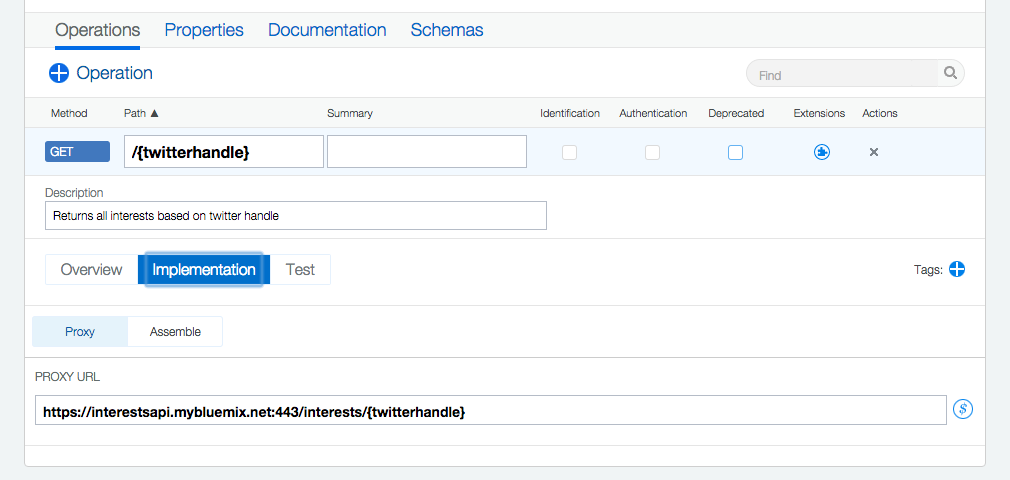
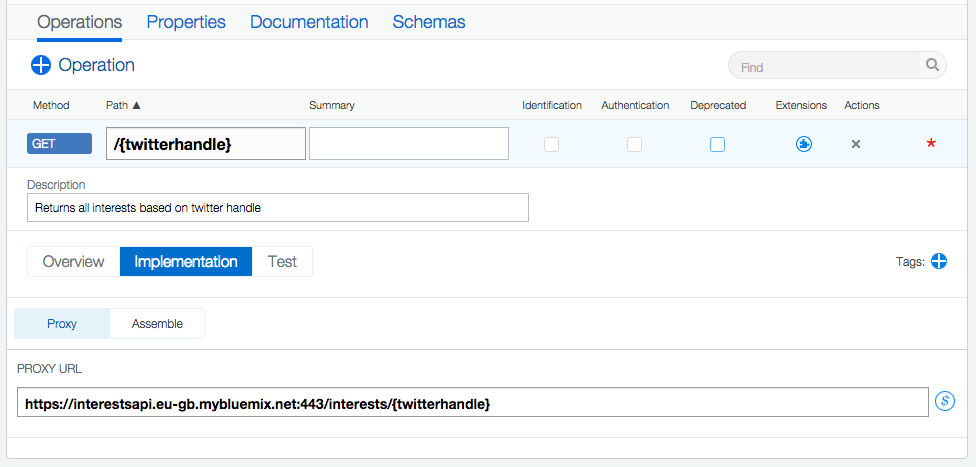
proxyurl

diff --git a/README.md b/README.md
@@ -49,7 +49,7 @@ API Management allows users to create APIs from scratch or import an existing AP
 ![picture alt](https://github.com/beemarie/WTU-lab/blob/master/images/twitteredit.png "edit twitter interests api")  
 7. Under the Operations tab, edit the GET method by clicking the edit pencil.
 ![picture alt](https://github.com/beemarie/WTU-lab/blob/master/images/editpencil.png "edit pencil")  
-8. Click the Implementation Tab and copy the following URL into the blank for Proxy URL: https://interestsapi.mybluemix.net:443/interests/{twitterhandle}
+8. Click the Implementation Tab, then click the Proxy tab, and finally copy the following URL into the blank for Proxy URL: https://interestsapi.eu-gb.mybluemix.net:443/interests/{twitterhandle}
 ![picture alt](https://github.com/beemarie/WTU-lab/blob/master/images/proxyurl.png "proxy url")
 9. Click Save in the upper right hand corner.
 
